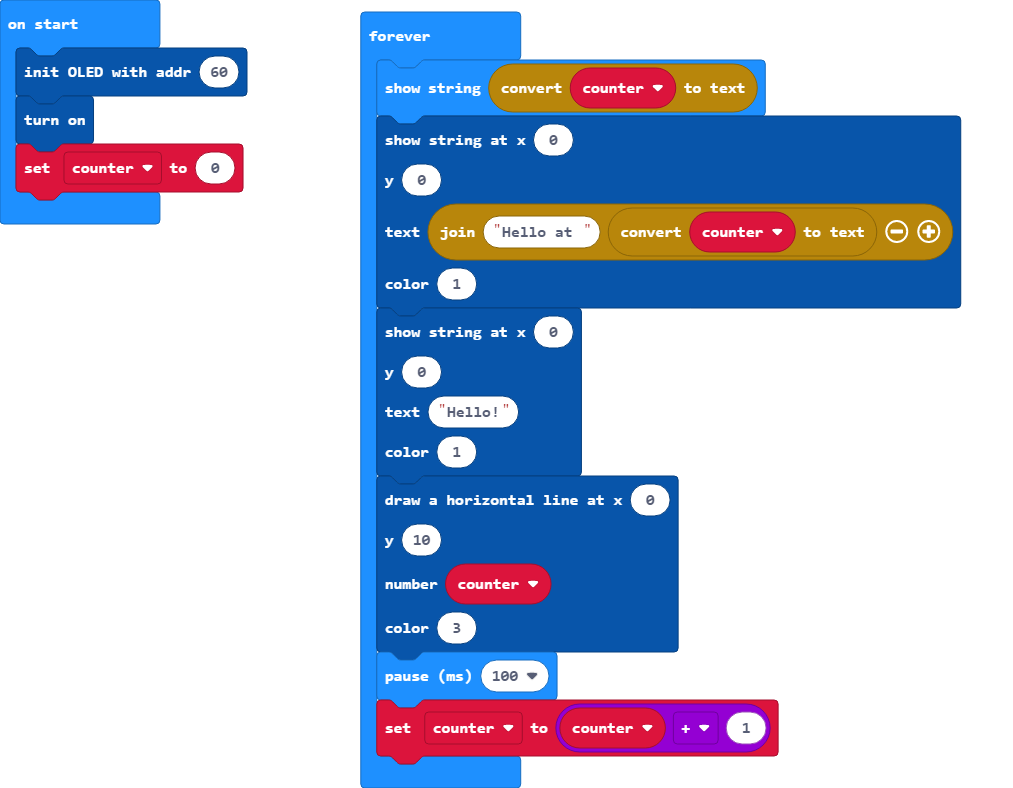
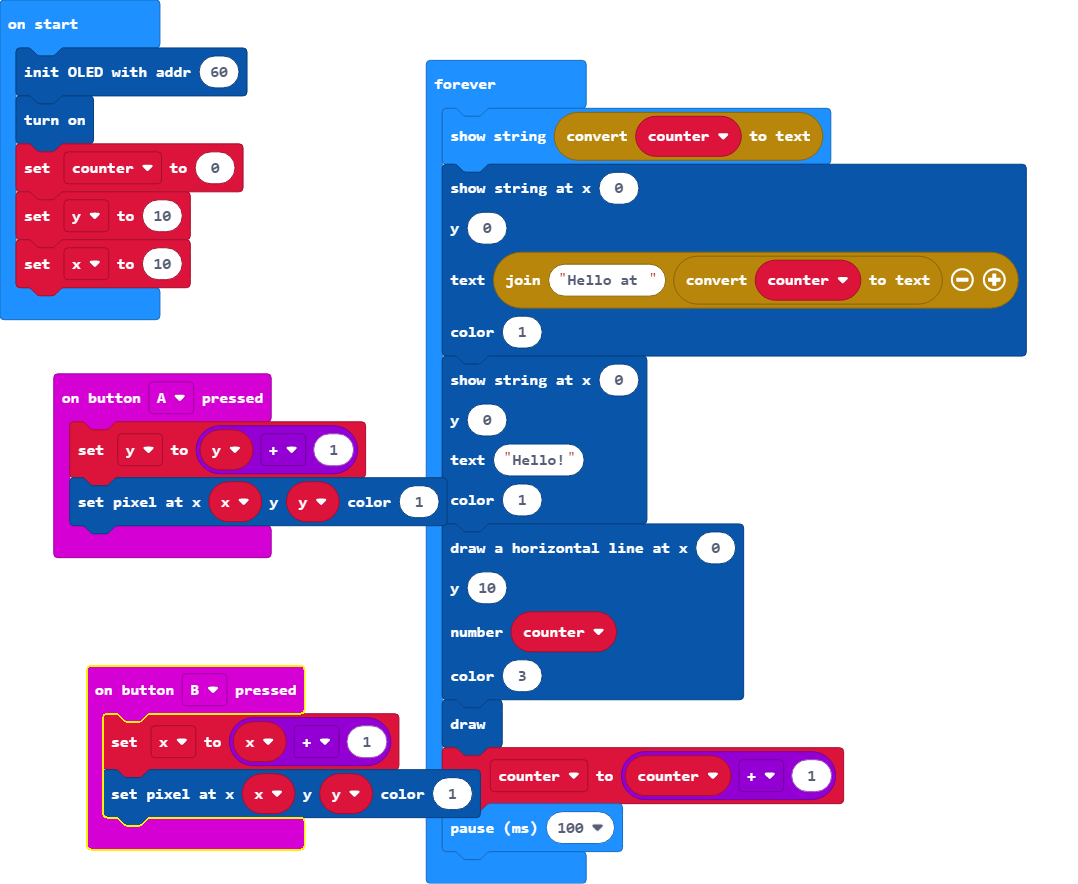
Update main.blocks, main.ts

diff --git a/main.ts b/main.ts
@@ -1,6 +1,18 @@
+input.onButtonPressed(Button.A, function () {
+    y = y + 1
+    OLED12864_I2C.pixel(x, y, 1)
+})
+input.onButtonPressed(Button.B, function () {
+    x = x + 1
+    OLED12864_I2C.pixel(x, y, 1)
+})
+let x = 0
+let y = 0
 OLED12864_I2C.init(60)
 OLED12864_I2C.on()
 let counter = 0
+y = 10
+x = 10
 basic.forever(function () {
     basic.showString(convertToText(counter))
     OLED12864_I2C.showString(
@@ -21,6 +33,7 @@ basic.forever(function () {
     counter,
     3
     )
-    basic.pause(100)
+    OLED12864_I2C.draw()
     counter = counter + 1
+    basic.pause(100)
 })
